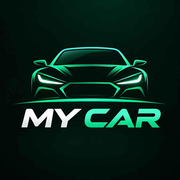
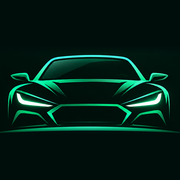
Add files via upload

Changed region(s): [[0.0, 0.25, 1.0, 0.75], [0.5278, 0.0, 0.6944, 0.0556]]

diff --git a/report.js b/report.js
@@ -142,7 +142,7 @@
   var CSS = '#rpt{position:fixed;left:-10000px;top:0;width:794px;background:#fff;color:#0f1f19;font-family:' + FF + ';font-size:15px}' +
     '#rpt *{box-sizing:border-box;margin:0}#rpt .rs{width:794px;padding:0 40px;background:#fff}' +
     '#rpt .hd{position:static;height:auto;top:auto;background:linear-gradient(135deg,#0b8a5f,#10b981);color:#fff;padding:30px 40px 26px;display:flex;gap:22px;align-items:center}' +
-    '#rpt .hd img.rlg{width:92px;height:92px;border-radius:22px;box-shadow:0 6px 20px rgba(0,0,0,.25)}#rpt .hd h1{font-size:34px;font-weight:800;line-height:1.1}#rpt .hd p{opacity:.92;margin-top:6px;font-size:16px}' +
+    '#rpt .hd img.rlg{height:92px;width:auto;border-radius:22px;box-shadow:0 6px 20px rgba(0,0,0,.25)}#rpt .hd h1{font-size:34px;font-weight:800;line-height:1.1}#rpt .hd p{opacity:.92;margin-top:6px;font-size:16px}' +
     '#rpt .h2{font-size:21px;font-weight:800;margin:22px 0 12px;color:#0b8a5f;display:flex;align-items:center;gap:8px}' +
     '#rpt .kp{display:grid;grid-template-columns:repeat(4,1fr);gap:12px;margin-top:20px}#rpt .kp div{background:#eef7f3;border-radius:16px;padding:14px 16px}#rpt .kp small{display:block;color:#6b7f76;font-size:12px}#rpt .kp b{display:block;font-size:22px;font-weight:800;color:#0b8a5f;margin-top:3px}' +
     '#rpt .cp{display:grid;grid-template-columns:1fr 1fr 1fr;gap:10px;margin-top:16px}#rpt .cp img{width:100%;height:170px;object-fit:cover;border-radius:16px}#rpt .cp.one{grid-template-columns:1fr}#rpt .cp.one img{height:330px}' +

diff --git a/index.html b/index.html
@@ -6,7 +6,7 @@
 <meta name="viewport" content="width=480,viewport-fit=cover">
 <meta name="theme-color" content="#edf7f2">
 <title>My CAR</title>
-<meta name="app-version" content="2.0.18">
+<meta name="app-version" content="2.0.19">
 <link rel="preconnect" href="https://www.gstatic.com" crossorigin>
 <link rel="modulepreload" href="https://www.gstatic.com/firebasejs/10.14.1/firebase-app.js">
 <link rel="modulepreload" href="https://www.gstatic.com/firebasejs/10.14.1/firebase-auth.js">
@@ -14,16 +14,16 @@
 <link rel="manifest" href="manifest.webmanifest">
 <link rel="icon" href="icon-192.png" type="image/png">
 <link rel="apple-touch-icon" href="apple-touch-icon.png">
-<link rel="stylesheet" href="styles.css?v=2.0.18">
+<link rel="stylesheet" href="styles.css?v=2.0.19">
 </head>
 <body>
 <div id="app"></div>
 <div id="layer"></div>
-<script src="firebase-config.js?v=2.0.18"></script>
+<script src="firebase-config.js?v=2.0.19"></script>
 <script>window.Cloud={ready:false,active:false,user:null,authChecked:false,synced:false,pending:!!(window.FIREBASE_CONFIG&&window.FIREBASE_CONFIG.apiKey)};</script>
-<script src="i18n.js?v=2.0.18"></script>
-<script src="app.js?v=2.0.18"></script>
-<script src="report.js?v=2.0.18"></script>
-<script type="module" src="cloud.js?v=2.0.18"></script>
+<script src="i18n.js?v=2.0.19"></script>
+<script src="app.js?v=2.0.19"></script>
+<script src="report.js?v=2.0.19"></script>
+<script type="module" src="cloud.js?v=2.0.19"></script>
 </body>
 </html>

diff --git a/styles.css b/styles.css
@@ -390,3 +390,5 @@ body{overflow-x:clip;overflow-y:visible}
 .rng{display:flex;gap:10px;align-items:center}
 .rng label{flex:1;min-width:0;display:flex;align-items:center;gap:8px;font-size:15px;font-weight:600;margin:0}
 .rng .inp,.gpr .inp,.sumc .rng .inp{margin-top:0;height:40px;font-size:14px;padding:0 8px;flex:1;min-width:0;width:auto;text-align:center;border-radius:12px}
+
+.lg img,.lg img.biglogo{width:min(300px,82vw);height:auto;border-radius:28px;box-shadow:0 10px 30px rgba(0,30,20,.28)}

diff --git a/app.js b/app.js
@@ -268,7 +268,7 @@
 })();
 (function () {
   'use strict';
-  var VERSION = '2.0.18';
+  var VERSION = '2.0.19';
   window.APP_VERSION = VERSION;
   var S = window.Store, I = window.I, M = window.MC;
   var $ = function (s, r) { return (r || document).querySelector(s); };

diff --git a/CHANGELOG.md b/CHANGELOG.md
@@ -1,5 +1,8 @@
 # История версий My CAR
 
+## v2.0.19 — 2026-10-18
+- Новый логотип (зелёный силуэт авто + надпись MY CAR) на экране входа, в отчёте и в иконке приложения (иконка — силуэт авто без надписи)
+
 ## v2.0.18 — 2026-10-18
 - Вкладка «Будущие события» переименована в «События»
 - Выбор своего периода («С» и «По») — компактная строка в один ряд, меньшие поля, одинаково в Гараже, Об авто и Аналитике

diff --git a/Summary.md b/Summary.md
@@ -1,6 +1,9 @@
-# My CAR — Summary (v2.0.18)
+# My CAR — Summary (v2.0.19)
 
 Мобильное веб-приложение учёта обслуживания авто. GitHub Pages: https://ladislaus-gold.github.io/my-car/ · Firebase: проект my-car-dfb42 (Google-вход, Firestore).
+
+## Версия 2.0.19 (2026-10-18)
+- Новый логотип: logo.png (полный), иконки 192/512/apple-touch — силуэт авто
 
 ## Версия 2.0.18 (2026-10-18)
 - Вкладка «События», компактный выбор своего периода в один ряд
